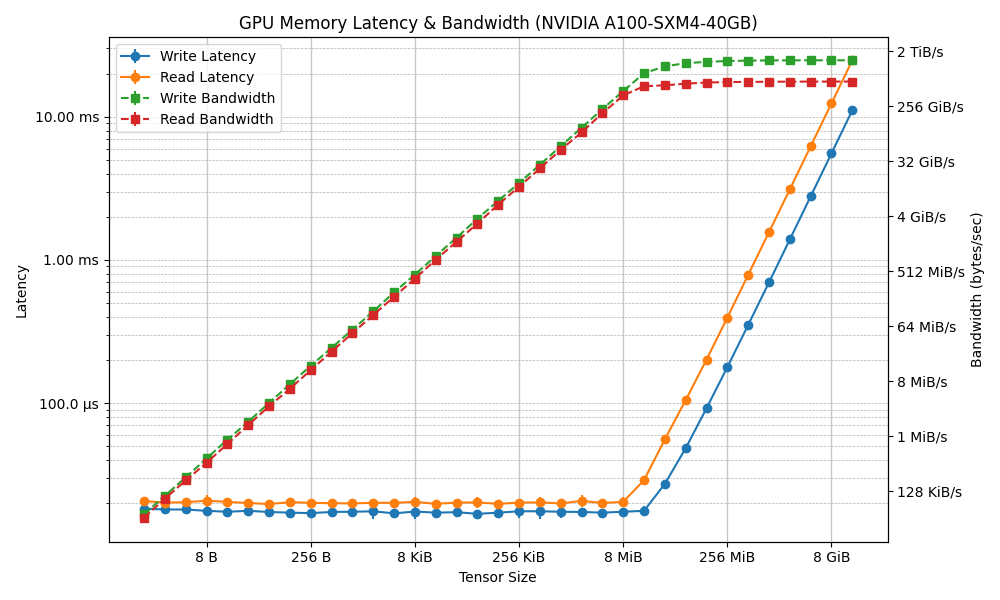
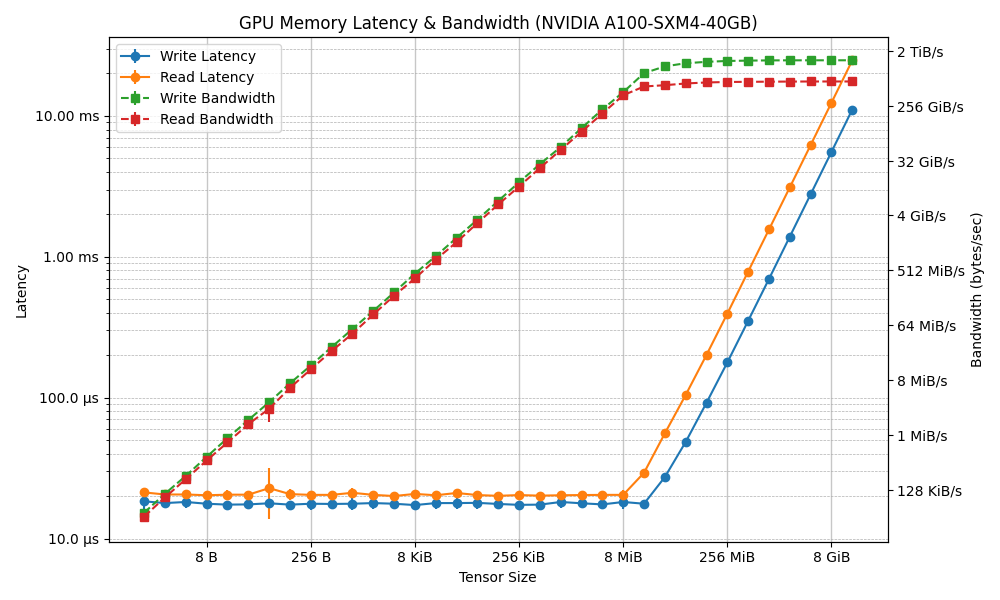
?

diff --git a/test-memory-latency-bandwidth.py b/test-memory-latency-bandwidth.py
@@ -161,10 +161,9 @@ def plot_latency_results(results, output_file=None, gpu_name=None):
             return f"{int(x/1024**4)} TiB{suffix}"
     ax1.xaxis.set_major_formatter(ticker.FuncFormatter(lambda x, pos: format_bytes(x, pos)))
     ax1.xaxis.set_major_locator(ticker.LogLocator(base=2))
-    ax1.xaxis.set_minor_locator(ticker.LogLocator(base=2, subs='auto', numticks=100))
-    ax1.xaxis.set_minor_formatter(ticker.NullFormatter())
+    ax1.xaxis.set_minor_locator(ticker.LogLocator(base=2, subs='all'))
     ax1.grid(True, which='major', axis='x', ls='-', lw=1, alpha=0.7)
-    ax1.grid(True, which='minor', axis='x', ls=':', lw=0.7, alpha=0.5)
+    ax1.grid(True, which='minor', axis='x', ls=':', lw=0.1, alpha=0.5)
 
     # Format y-ticks as human-readable time units (log scale)
     def format_time(y, pos=None):
@@ -194,6 +193,10 @@ def plot_latency_results(results, output_file=None, gpu_name=None):
     ax2.set_yscale('log', base=2)
     # Bandwidth is now in bytes/sec, so use the same formatter as bytes, with '/s' suffix
     ax2.yaxis.set_major_formatter(ticker.FuncFormatter(lambda y, pos: format_bytes(y, pos, suffix='/s')))
+    ax2.yaxis.set_major_locator(ticker.LogLocator(base=2))
+    ax2.yaxis.set_minor_locator(ticker.LogLocator(base=2, subs='auto', numticks=100))
+    ax2.yaxis.set_minor_formatter(ticker.NullFormatter())
+    ax2.grid(True, which='minor', axis='y', ls=':', lw=0.7, alpha=0.5)
     ax2.set_ylabel('Bandwidth (bytes/sec)')
 
     # Combine legends from both axes
